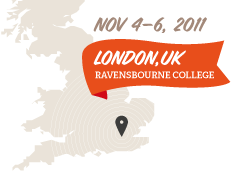
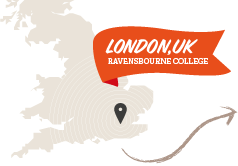
Ammending the header

Changed region(s): [[0.0603, 0.0, 0.9957, 0.994], [0.0, 0.0, 0.3017, 0.5422], [0.5431, 0.6325, 0.9957, 0.994]]

diff --git a/wp-content/themes/mozilla-festival/style.css b/wp-content/themes/mozilla-festival/style.css
@@ -86,11 +86,17 @@ a.register {
     margin: 36px 0 0 -46px;
 }
 #branding p {
-    clear: left;
-    font-family: "MetaWebPro-Black";
-    font-size: 18px;
+    font-size: 14px;
+    color: #6F6F6E;
     margin: 0;
-    text-transform: uppercase;
+    font-family: Arial;
+    position: absolute;
+    padding-bottom: 2em;
+    right: 20px;
+    bottom: 0;
+    width: 200px;
+    font-weight: bold;
+    background: transparent url(images/header-arrow.png) no-repeat bottom right;
 }
 #branding .cta {
     font-family: Arial;
@@ -143,9 +149,9 @@ a.register {
 #site-description .hide {
     background: transparent url(images/map.png) no-repeat left top;
     display: block;
-    width: 231px;
+    width: 260px;
     height: 172px;
-    left: 380px;
+    left: 520px;
     top: 0;
     text-indent: -9999em;
 }
